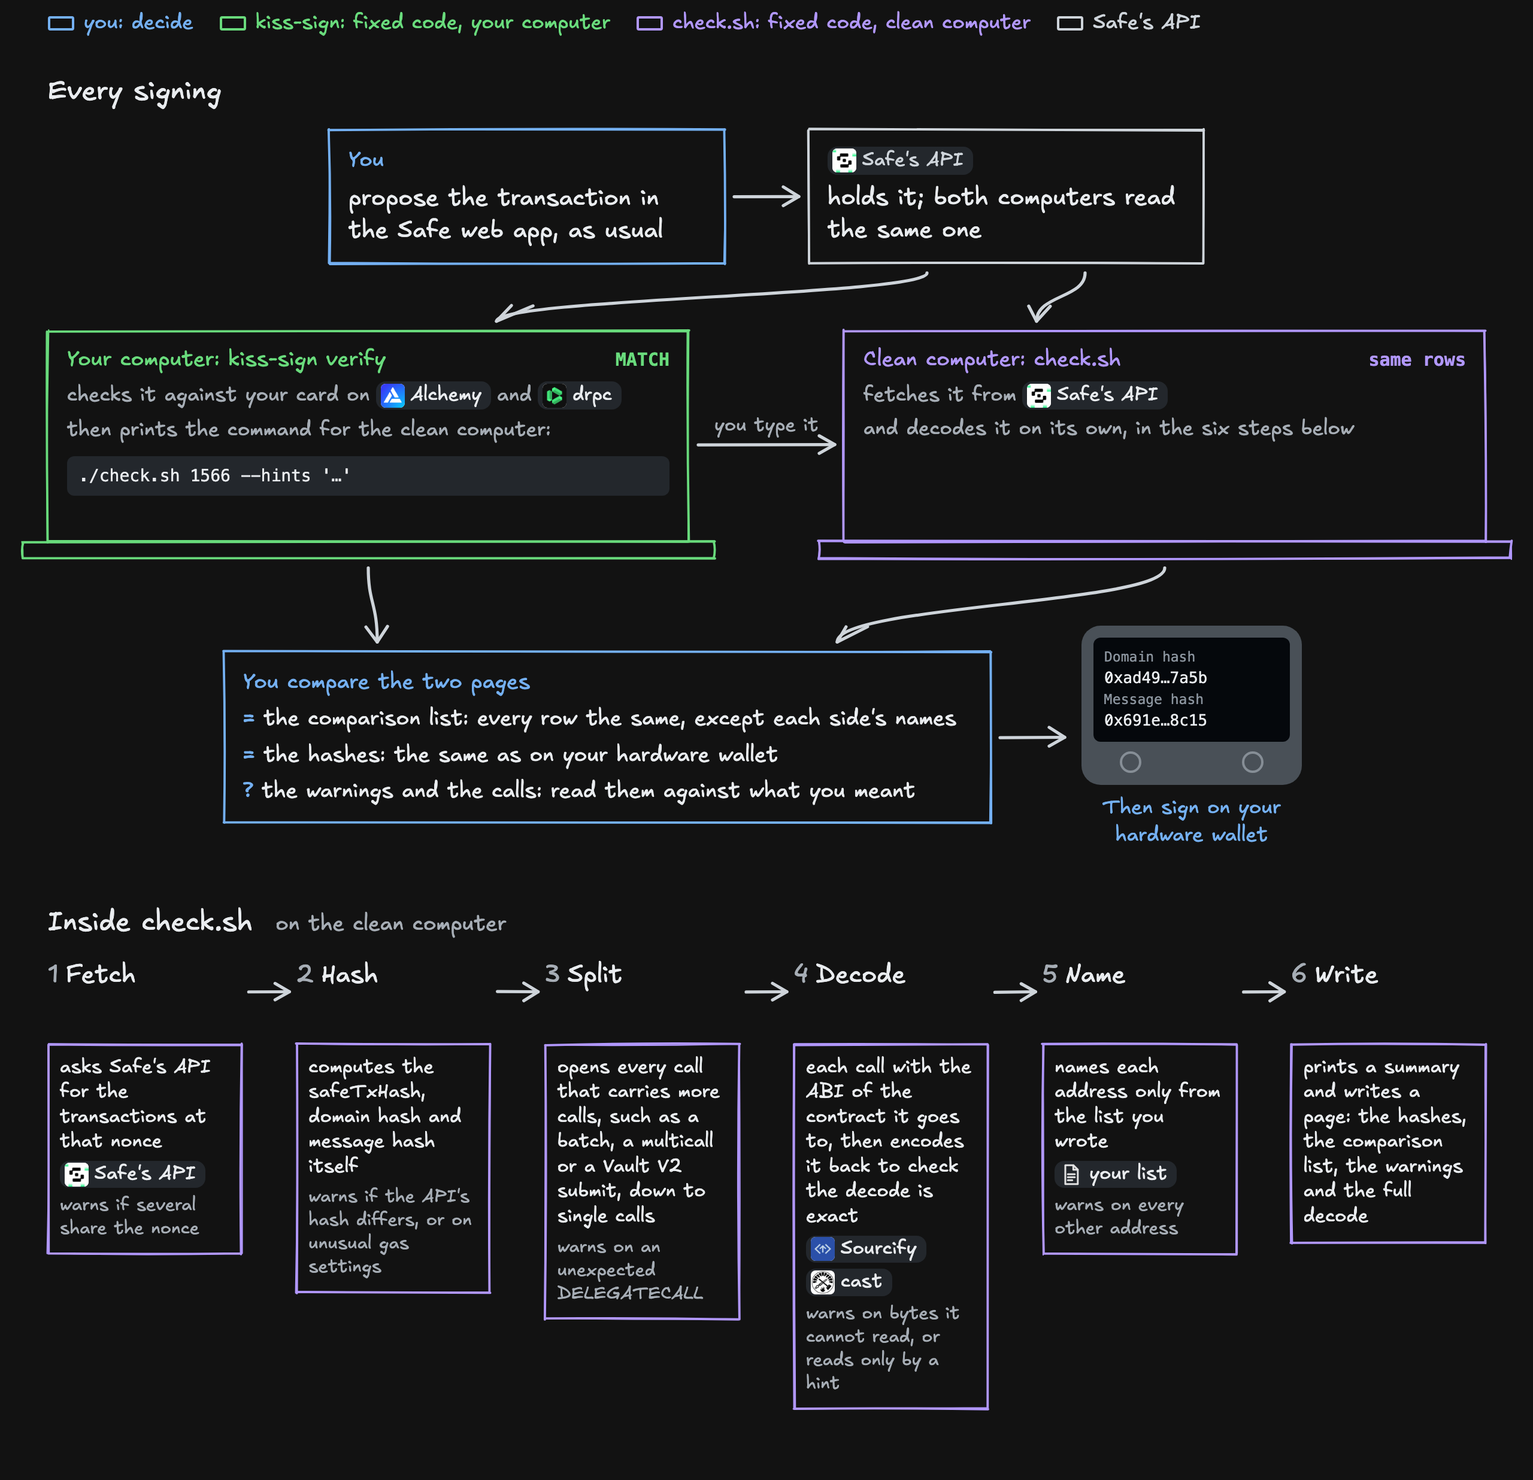
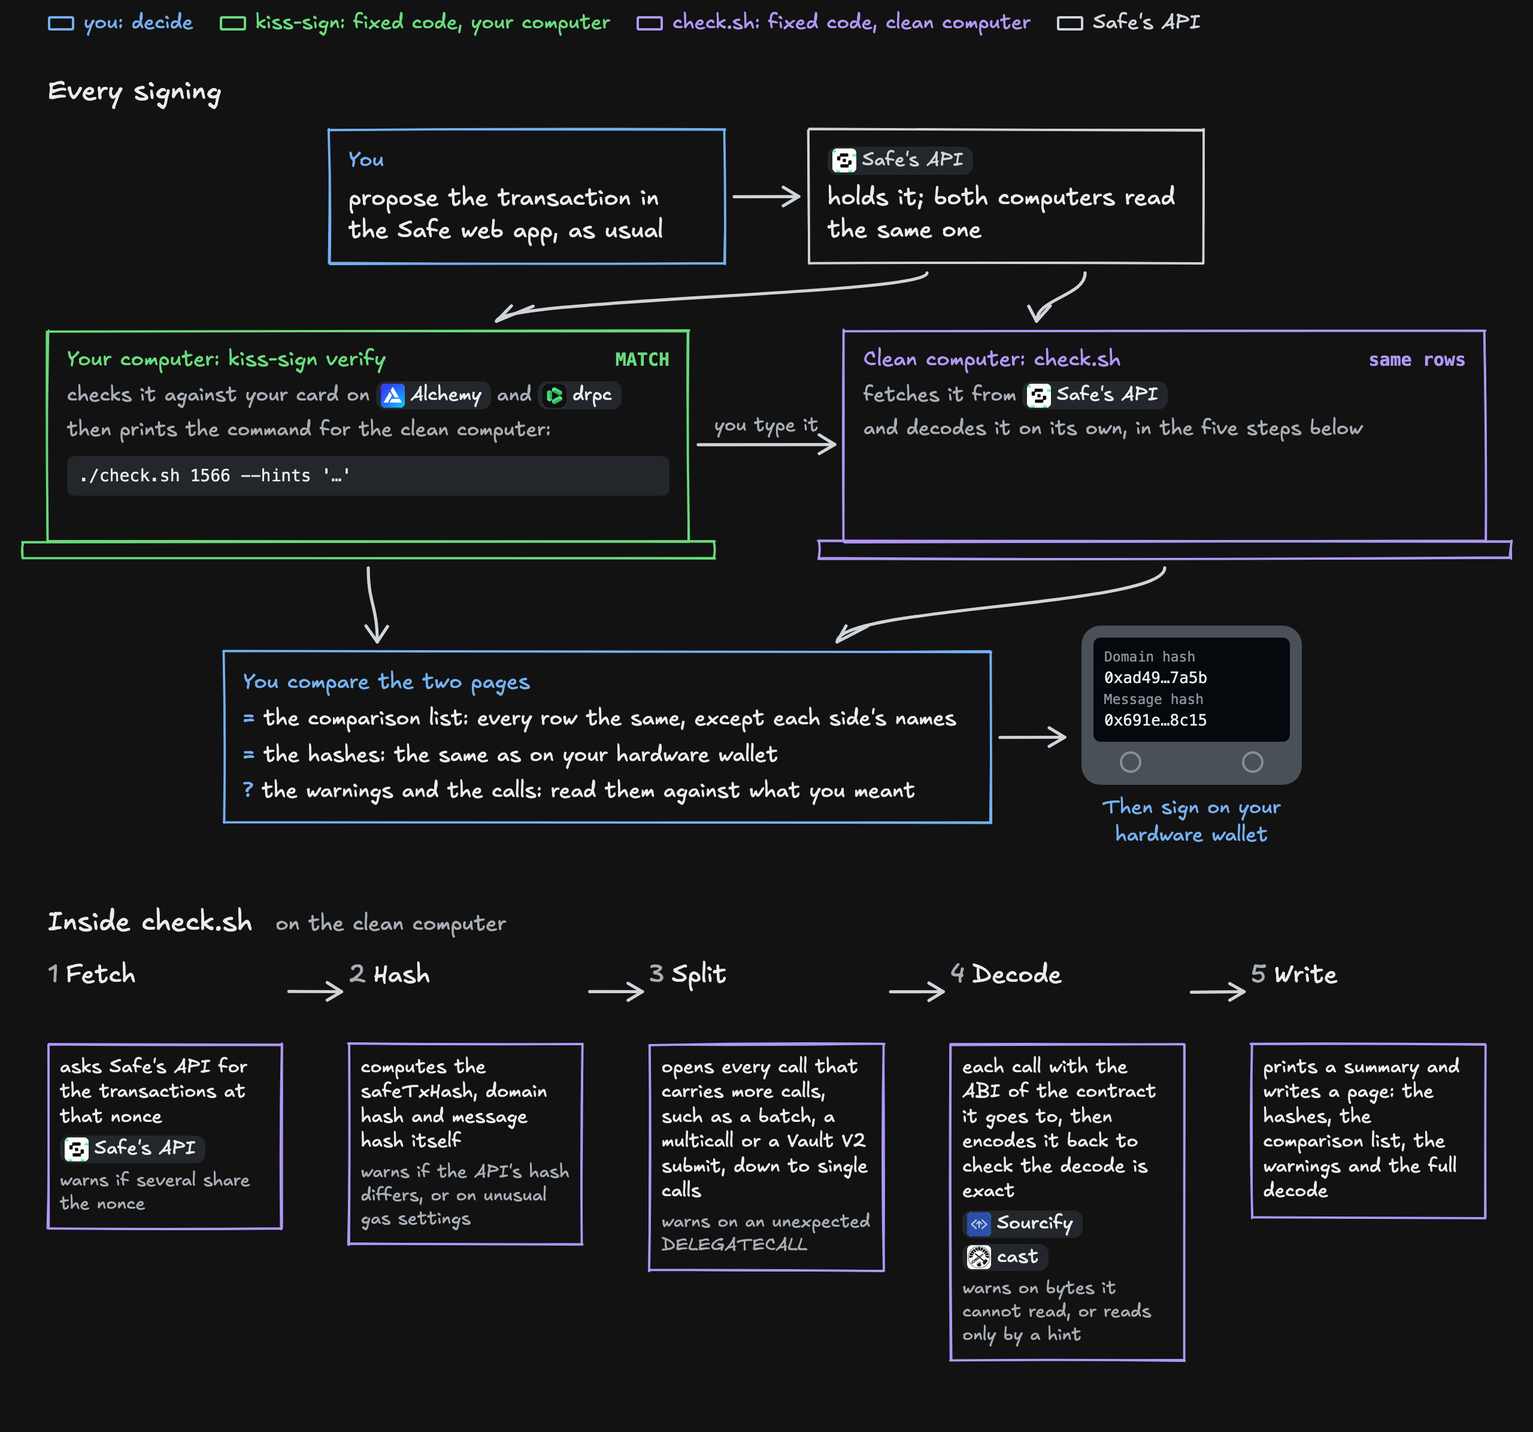
Docs and overview: no address list, five steps inside check.sh
Claude-Session: https://claude.ai/code/session_019EpkRikTD1KbjKp9L1wtSS

diff --git a/docs/diagrams/overview.html b/docs/diagrams/overview.html
@@ -1,6 +1,6 @@
 <!doctype html>
 <!-- Source of docs/readme/overview.png and overview-dark.png, in the style of kiss-sign's README overview.
-     Logos are each project's own; docs.svg is drawn for this page. Font: Excalifont, OFL-1.1 (fonts/Excalifont-OFL.txt).
+     Logos are each project's own. Font: Excalifont, OFL-1.1 (fonts/Excalifont-OFL.txt).
      Re-render with docs/diagrams/render.sh. -->
 <html lang="en">
 <head>
@@ -58,7 +58,7 @@
   .compare li::before { content: "= "; color: var(--you); }
   .compare li.read::before { content: "? "; }
 
-  .chain { display: grid; grid-template-columns: repeat(6, minmax(0, 1fr)); gap: 46px; }
+  .chain { display: grid; grid-template-columns: repeat(5, minmax(0, 1fr)); gap: 56px; }
   .chain .t { font-size: 21px; line-height: 1.2; min-height: 52px; margin-bottom: 18px; }
   .chain .n { color: var(--muted); margin-right: 6px; }
   .chain .sk { font-size: 16px; line-height: 1.3; padding: 9px 10px 11px; display: grid; gap: 5px; }
@@ -92,7 +92,7 @@
     </div>
     <div class="pc ind" id="pc2">
       <div class="sk scr"><div class="who">Clean computer: check.sh<span class="verdict">same rows</span></div>
-        <div class="line"><span class="note">fetches it from</span><span class="lg"><img src="logos/safe.jpg" alt="">Safe's API</span><span class="note">and decodes it on its own, in the six steps below</span></div></div>
+        <div class="line"><span class="note">fetches it from</span><span class="lg"><img src="logos/safe.jpg" alt="">Safe's API</span><span class="note">and decodes it on its own, in the five steps below</span></div></div>
       <div class="sk base"></div>
     </div>
   </div>
@@ -113,8 +113,7 @@
     <div id="c2"><div class="t"><span class="n">2</span>Hash</div><div class="sk ind"><div>computes the safeTxHash, domain hash and message hash itself</div><div class="out">warns if the API's hash differs, or on unusual gas settings</div></div></div>
     <div id="c3"><div class="t"><span class="n">3</span>Split</div><div class="sk ind"><div>opens every call that carries more calls, such as a batch, a multicall or a Vault V2 submit, down to single calls</div><div class="out">warns on an unexpected DELEGATECALL</div></div></div>
     <div id="c4"><div class="t"><span class="n">4</span>Decode</div><div class="sk ind"><div>each call with the ABI of the contract it goes to, then encodes it back to check the decode is exact</div><div class="logos"><span class="lg"><img src="logos/sourcify.jpg" alt="">Sourcify</span><span class="lg"><img src="logos/foundry.png" alt="">cast</span></div><div class="out">warns on bytes it cannot read, or reads only by a hint</div></div></div>
-    <div id="c5"><div class="t"><span class="n">5</span>Name</div><div class="sk ind"><div>names each address only from the list you wrote</div><div class="logos"><span class="lg"><img class="mono-logo" src="logos/docs.svg" alt="">your list</span></div><div class="out">warns on every other address</div></div></div>
-    <div id="c6"><div class="t"><span class="n">6</span>Write</div><div class="sk ind"><div>prints a summary and writes a page: the hashes, the comparison list, the warnings and the full decode</div></div></div>
+    <div id="c5"><div class="t"><span class="n">5</span>Write</div><div class="sk ind"><div>prints a summary and writes a page: the hashes, the comparison list, the warnings and the full decode</div></div></div>
   </div>
 
 <script>
@@ -168,7 +167,7 @@ Promise.all([document.fonts.ready, new Promise((ok) => (document.readyState === 
   down('pc1', 'compare', 0.5, 0.2);
   down('pc2', 'compare', 0.5, 0.8);
   right('compare', 'wallet');
-  for (let i = 1; i < 6; i++) {
+  for (let i = 1; i < 5; i++) {
     const A = rect('c' + i), B = rect('c' + (i + 1)), t = document.querySelector('#c' + i + ' .t').getBoundingClientRect();
     const x1 = A.r + 6, x2 = B.l - 6, y = t.top + t.height / 2 + scrollY, s = 12;
     draw(`M${x1} ${y + rnd()} L${x2} ${y}`, ink, 2.6);

diff --git a/docs/details.md b/docs/details.md
@@ -8,7 +8,7 @@ Set `LANGUAGE` to the language your kiss-sign uses, the one its `init` recorded:
 
 A wrong `SAFE_VERSION` can give a hash that does not match your wallet, and a matching hash does not prove the version is right: versions 1.3.0 to 1.5.0 hash the same way, as do 1.1.0 to 1.2.0.
 
-Then write `known-addresses.txt` by hand, one `0x<address> <name>` per line, copying each address from the protocol's official documentation; `known-addresses.example.txt` shows the format. Never copy it from the work computer: the point is that this list does not come from there. The official Safe MultiSend addresses are built in. `CHECK_CONFIG` and `CHECK_KNOWN` can name another config and address list; the page names the address list's file, never a path on this computer. `config`, `known-addresses.txt` and `out/` are ignored by git and stay on this computer.
+`CHECK_CONFIG` can name another config. `config` and `out/` are ignored by git and stay on this computer.
 
 ## Running it
 
@@ -21,7 +21,7 @@ It fetches the transactions at that nonce from `api.safe.global`, and the ABI of
 
 **The warnings.** Read every `!! Warning` line (`!! 警告` in Traditional Chinese). A warning means look closer, not necessarily stop. A warning about a `bytes` argument or part it cannot read, or reads by a hint, names the function and contract they go to and the contract's verified source on Etherscan (and its implementation's, for a proxy), as plain text: look up there, or in the protocol's docs, how the contract reads those bytes, and check the addresses and amounts shown. A note, such as the proxy above, is a fact of the decode that `check.sh` does not judge.
 
-The page also holds the full decode, with every call and every address named from your list:
+The page also holds the full decode, with every call and every argument:
 
 ![The check.sh page's full decode of nonce 1566: the Safe's DELEGATECALL into the official MultiSend, the USDC approve to Morpho GeneralAdapter1, and the Bundler3 multicall with its two calls, erc20TransferFrom and erc4626Deposit into the Hyperithm USDC Apex vault](readme/decode.png)
 
@@ -42,12 +42,12 @@ Sourcify is trusted only to help you read. Each call's `function` row in the com
 - **The hash, computed locally.** The safeTxHash comes from the same `to`, `value`, `data`, `operation` and gas fields the decode prints. The service's own hash is used only to warn when it differs.
 - **Every call.** Each call inside a MultiSend, each call of a Bundler3 `multicall` with its target and value, each call of `multicall(bytes[])`, `submit(bytes)` and `revoke(bytes)`, and the bundle Morpho calls back with from `morphoSupplyCollateral`. A MultiSend is split into the Safe's calls only when the Safe itself DELEGATECALLs an official MultiSend, and the list must split exactly.
 - **The decode is exact.** The decoded arguments are encoded again and compared with the data. Any difference is a warning, bytes after the arguments included: no argument holds them, but a contract can still read them. The Morpho and Uniswap apps append such a tag to their calls, so their transactions carry this warning; kiss-sign's template states how many bytes it allows.
-- **Every address is named, or flagged.** Names come only from your `known-addresses.txt`, the built-in MultiSend list, the Safe in your `config` and the zero address.
+- **Addresses are shown, not judged.** It names only the official MultiSend addresses, built in, the Safe in your `config` and the zero address. Whether any other address is the protocol's real one is kiss-sign's check, not this one.
 - **Warnings for what usually means trouble:**
   - non-zero `safeTxGas`, `baseGas`, `gasPrice`, `gasToken` or `refundReceiver`;
   - a DELEGATECALL other than the Safe's own call into an official MultiSend, or a plain CALL into an official MultiSend;
   - a zero `to` inside a MultiSend;
-  - a contract Sourcify has not verified, a function its ABI lacks, an unknown address, or a `bytes` argument or part it cannot decode, bytes it shows as a hint reads them, a hint that does not fit, and a hint it does not use;
+  - a contract Sourcify has not verified, a function its ABI lacks, or a `bytes` argument or part it cannot decode, bytes it shows as a hint reads them, a hint that does not fit, and a hint it does not use;
   - a `bytes` value of exactly 20 bytes, shown also as the address it may be, or of exactly 32 bytes, shown also as the address it may be when its first 12 bytes are zero;
   - bytes after a call's arguments;
   - ETH sent along with a call that has data, from the Safe or a MultiSend (a Bundler3 call's value is shown, not warned on);
@@ -71,14 +71,14 @@ Sourcify is trusted only to help you read. Each call's `function` row in the com
 /bin/bash test/run.sh
 ```
 
-[`test/fixtures/`](../test/fixtures/) holds real transactions of other Safes, recorded by kiss-sign, and crafted cases: hostile ones (`hostile-*`) and the two Vault V2 cap ids no recorded transaction holds. `test/known-addresses.txt` is for the tests only; do not sign with it. The tests read both the terminal and the page, and check that:
+[`test/fixtures/`](../test/fixtures/) holds real transactions of other Safes, recorded by kiss-sign, and crafted cases: hostile ones (`hostile-*`) and the two Vault V2 cap ids no recorded transaction holds. The tests read both the terminal and the page, and check that:
 
 - every real case reproduces its recorded on-chain safeTxHash;
 - the comparison lists of seven transactions, in each language, equal [`test/expected/en/`](../test/expected/en/) and [`test/expected/zh-TW/`](../test/expected/zh-TW/), which kiss-sign's own tests also pin: a Bundler3 deposit, an ETH transfer, a Merkl claim, a CoW order, a Uniswap swap with its approvals, a Vault V2 cap submission and a reallocation;
 - each runs with the `--hints` kiss-sign prints for it, kept in [`test/expected/hints/`](../test/expected/hints/) and pinned by kiss-sign's tests too, and the full decode of the five cases hints read is as expected;
 - the comparison list is the same with kiss-sign's hints, with hostile hints that fit and that do not, and with none;
 - bytes a hint reads always keep a warning, a hint that does not fit or names nothing says why, and malformed hints are refused before anything runs;
-- hostile text in the service's fields is never shown, and the same text as an address-list name is shown escaped, with its bidi and control characters replaced.
+- hostile text in the service's fields is never shown as markup, and its bidi and control characters are replaced.
 
 The tests read no network. [`test/sourcify/`](../test/sourcify/) holds Sourcify's answer for every contract `check.sh` asks about while it decodes the fixtures, named `<address>.<HTTP status>.json`, and `CHECK_SOURCIFY_DIR` makes `check.sh` read them instead of asking Sourcify. `/bin/bash test/record-sourcify.sh` records them again, by running `check.sh` on every fixture with `CHECK_SOURCIFY_SAVE`, which saves each answer it gets.
 

diff --git a/README.md b/README.md
@@ -9,7 +9,7 @@ Remember [decoding a Safe transaction by hand](https://github.com/ipromise2324/k
 
 <picture>
   <source media="(prefers-color-scheme: dark)" srcset="docs/readme/overview-dark.png">
-  <img src="docs/readme/overview.png" alt="kiss-sign-check at a glance. At every signing you propose the transaction in the Safe web app, and both computers read it from Safe's API. Your computer runs kiss-sign verify, which checks it against your card and on MATCH prints the command for the clean computer. You type it there, and check.sh decodes the transaction on its own. You compare the two pages: every row of the comparison list the same except each side's names, the hashes the same as on your hardware wallet, and the warnings and calls read against what you meant. Then you sign on your hardware wallet. Inside check.sh, six steps: fetch the transactions at that nonce from Safe's API; compute the hashes itself; split every call that carries more calls down to single calls; decode each call with Sourcify's ABI and cast and encode it back to check the decode is exact; name each address only from your own list; and write a page with the hashes, the comparison list, the warnings and the full decode.">
+  <img src="docs/readme/overview.png" alt="kiss-sign-check at a glance. At every signing you propose the transaction in the Safe web app, and both computers read it from Safe's API. Your computer runs kiss-sign verify, which checks it against your card and on MATCH prints the command for the clean computer. You type it there, and check.sh decodes the transaction on its own. You compare the two pages: every row of the comparison list the same except each side's names, the hashes the same as on your hardware wallet, and the warnings and calls read against what you meant. Then you sign on your hardware wallet. Inside check.sh, five steps: fetch the transactions at that nonce from Safe's API; compute the hashes itself; split every call that carries more calls down to single calls; decode each call with Sourcify's ABI and cast and encode it back to check the decode is exact; and write a page with the hashes, the comparison list, the warnings and the full decode.">
 </picture>
 
 ## Contents
@@ -32,8 +32,6 @@ git clone https://github.com/ipromise2324/kiss-sign-check.git && cd kiss-sign-ch
 cp config.example config  # set your SAFE, its SAFE_VERSION and the LANGUAGE you gave kiss-sign
 ```
 
-Then write `known-addresses.txt` by hand, one `0x<address> <name>` per line, from each protocol's official docs, never from your work computer. `known-addresses.example.txt` shows the format.
-
 ## Use
 
 When kiss-sign `verify` prints `MATCH`, type on the clean computer the command it prints, such as:
@@ -45,7 +43,7 @@ When kiss-sign `verify` prints `MATCH`, type on the clean computer the command i
 Open the page it writes and check three things:
 
 1. **The hashes** are the same as on your hardware wallet. If not, do not sign.
-2. **The comparison list** is the same as on kiss-sign's page, row by row, except the name column, where each side names addresses from its own list. If any other row differs, stop.
+2. **The comparison list** is the same as on kiss-sign's page, row by row, except the name column on the right, where kiss-sign names addresses from its registry. If any other row differs, stop.
 
    ![The kiss-sign verify page (MATCH) on the work computer and the check.sh page on the second computer, side by side, with the same hashes and the same calls row by row](docs/readme/side-by-side.png)
 
@@ -71,7 +69,7 @@ Report security problems as an issue too.
 
 ## Disclaimer
 
-`check.sh` is provided as is, without warranty of any kind. It can be wrong: a bug, a wrong address list, a compromised Safe Transaction Service or a compromised second computer can make it show rows that match a transaction you did not mean. Matching rows say only that two programs decoded the same bytes the same way. They do not say that a protocol, a contract or a transaction is safe, and nothing here is financial, legal or security advice.
+`check.sh` is provided as is, without warranty of any kind. It can be wrong: a bug, a compromised Safe Transaction Service or a compromised second computer can make it show rows that match a transaction you did not mean. Matching rows say only that two programs decoded the same bytes the same way. They do not say that a protocol, a contract or a transaction is safe, and nothing here is financial, legal or security advice.
 
 You alone are responsible for every transaction you sign. The authors and contributors are not liable for any loss, however it arises, including through the use of kiss-sign or kiss-sign-check.
 

diff --git a/docs/checklist.md b/docs/checklist.md
@@ -4,7 +4,7 @@ kiss-sign `verify` (after `MATCH`) and `check.sh` write the same block, so the t
 
 For the same transaction, decoded the same way and in the same language, both write it byte for byte the same except the name column. [`test/expected/en/`](../test/expected/en/) and [`test/expected/zh-TW/`](../test/expected/zh-TW/) pin it, in each language, for seven recorded transactions of other Safes: a Bundler3 deposit through MultiSend, an ETH transfer, a Merkl claim, a CoW pre-signed order, a Uniswap swap through MultiSend with its two approvals, a Morpho Vault V2 cap submission and a Vault V2 reallocation; kiss-sign's tests compare their own block with a copy of each file, so a format change fails one side until both change (kiss-sign keeps its copies in `testdata/checklist/`). kiss-sign's `docs/design.md` (The 比對清單) holds the same rules.
 
-The block is one HTML line per line, between `<!-- 比對清單 -->` and `<!-- /比對清單 -->`, inside `<div class="cl">`. A group line, `<div class="g"><span class="id">ID</span><span>TITLE</span></div>`, heads each call. Every other line is a row, `<div class="r"><span class="id">ID</span><span class="k">KEY</span><span class="v">VALUE</span><span class="nm">NAME</span></div>`. NAME is each program's own name or note for the value: here from `known-addresses.txt`; in kiss-sign from its registry or address book, or a note on a number the card bounds (an amount in whole tokens, a percent, or which bound a share price is), and on an `-extra` row the template's rule and its reason. It is not compared; compare the addresses.
+The block is one HTML line per line, between `<!-- 比對清單 -->` and `<!-- /比對清單 -->`, inside `<div class="cl">`. A group line, `<div class="g"><span class="id">ID</span><span>TITLE</span></div>`, heads each call. Every other line is a row, `<div class="r"><span class="id">ID</span><span class="k">KEY</span><span class="v">VALUE</span><span class="nm">NAME</span></div>`. NAME is each program's own name or note for the value: here only the official MultiSend, the Safe and the zero address; in kiss-sign from its registry or address book, or a note on a number the card bounds (an amount in whole tokens, a percent, or which bound a share price is), and on an `-extra` row the template's rule and its reason. It is not compared; compare the addresses.
 
 Row IDs never change. Group titles, keys, the VALUE of an empty `-data` and the words of a folded value come from one table per language in `check.sh`, which kiss-sign carries word for word:
 

diff --git a/docs/hints.md b/docs/hints.md
@@ -16,7 +16,7 @@ The hints come from the work computer, the one this computer exists not to trust
 
 - **No comparison-list row comes from a hint.** Every row is decoded from the transaction with Sourcify's ABI as without hints, and bytes a hint reads stay one row, folded with their keccak256. The tests run every pinned transaction with kiss-sign's hints, with hostile hints and with none, and require the same list.
 - **A reading is shown only if it encodes back.** The parts, encoded again with `cast abi-encode` (or `--packed`), must give exactly the original bytes. Otherwise the bytes stay raw with their warning, and a second warning says why the hint did not fit.
-- **A reading that fits keeps a warning.** Any bytes whose length is a multiple of 32 also fit as that many `uint256`, which would show a hidden call or address as numbers, and a `packed` hint can cut an address into two parts. So bytes a hint reads always carry a warning, in place of the one that says they cannot be decoded, that they are shown as the hint reads them. A hint adds lines to the full decode; it never changes a row, and never leaves the bytes it reads without a warning. Addresses in the parts are named from your list or warned about as anywhere else, and a `bytes` part no hint reads warns as before.
+- **A reading that fits keeps a warning.** Any bytes whose length is a multiple of 32 also fit as that many `uint256`, which would show a hidden call or address as numbers, and a `packed` hint can cut an address into two parts. So bytes a hint reads always carry a warning, in place of the one that says they cannot be decoded, that they are shown as the hint reads them. A hint adds lines to the full decode; it never changes a row, and never leaves the bytes it reads without a warning. A `bytes` part no hint reads warns as before.
 - **A hint that names nothing is a warning.** An entry whose path holds no `bytes` in this transaction, or names bytes `check.sh` decodes as calls, is not used, and says so.
 
 Each of these warnings, like the one for bytes no hint reads, names the function and contract the bytes go to and where to read the contract's verified source.
